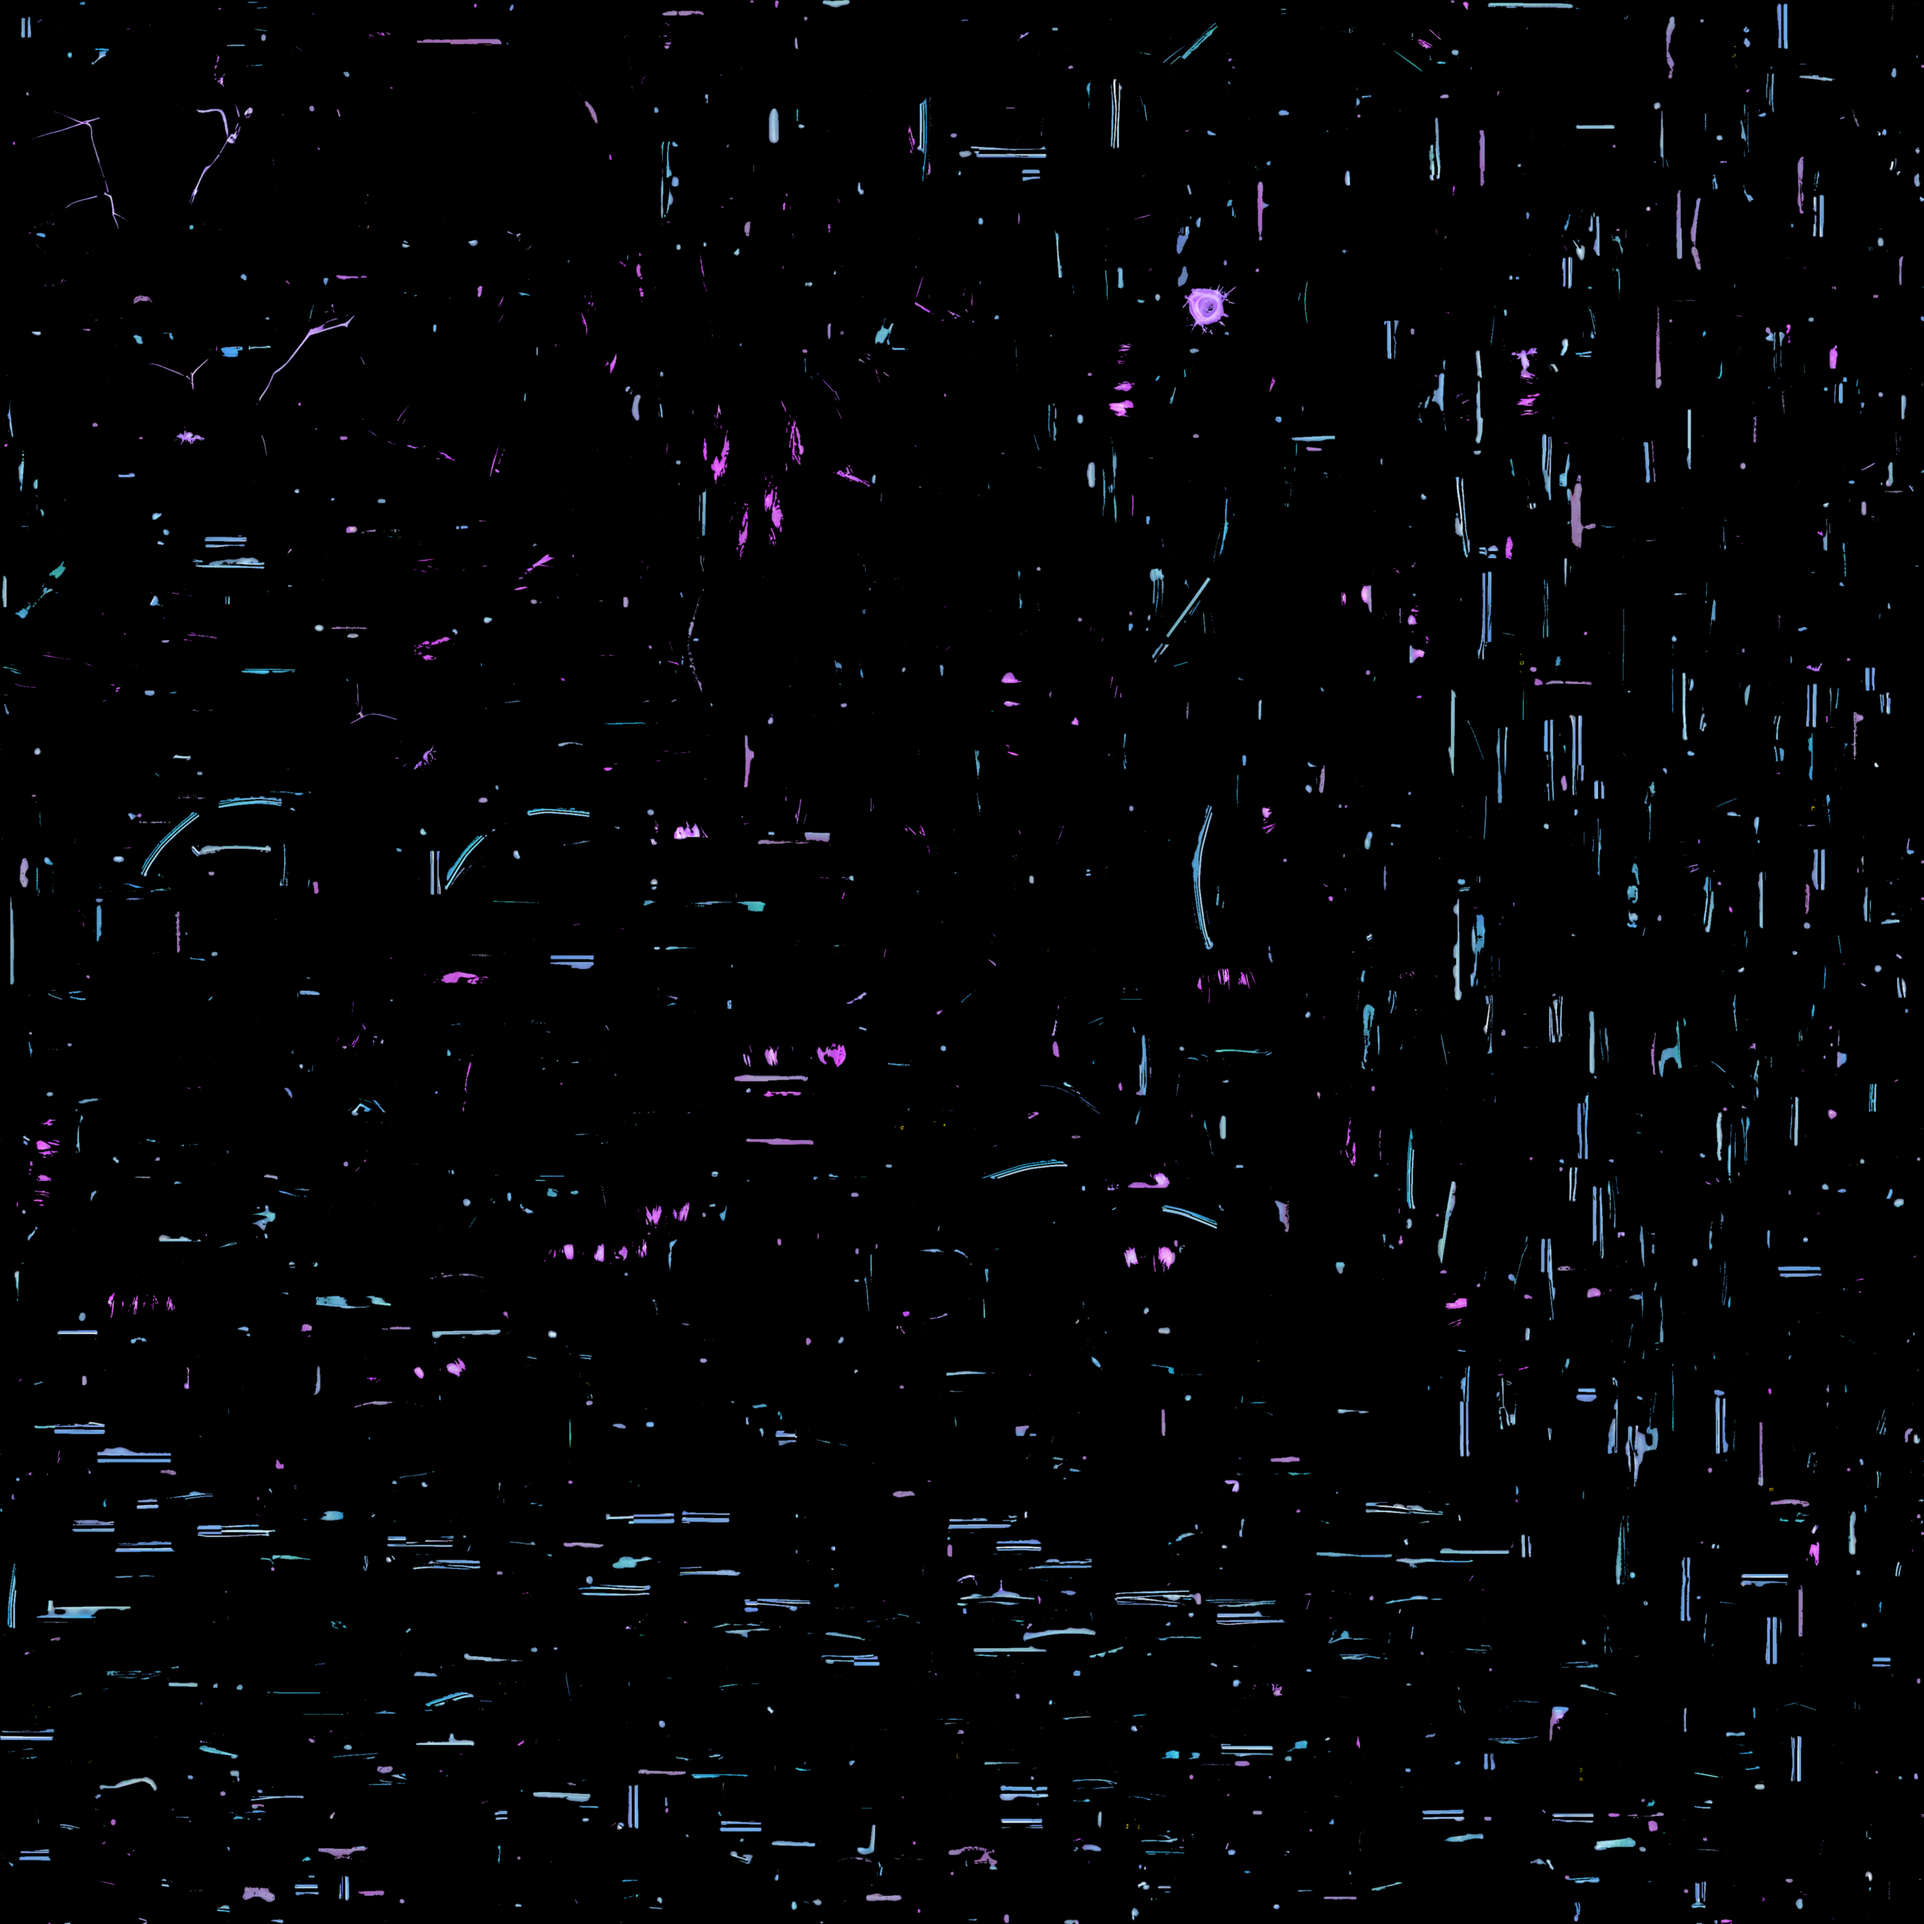
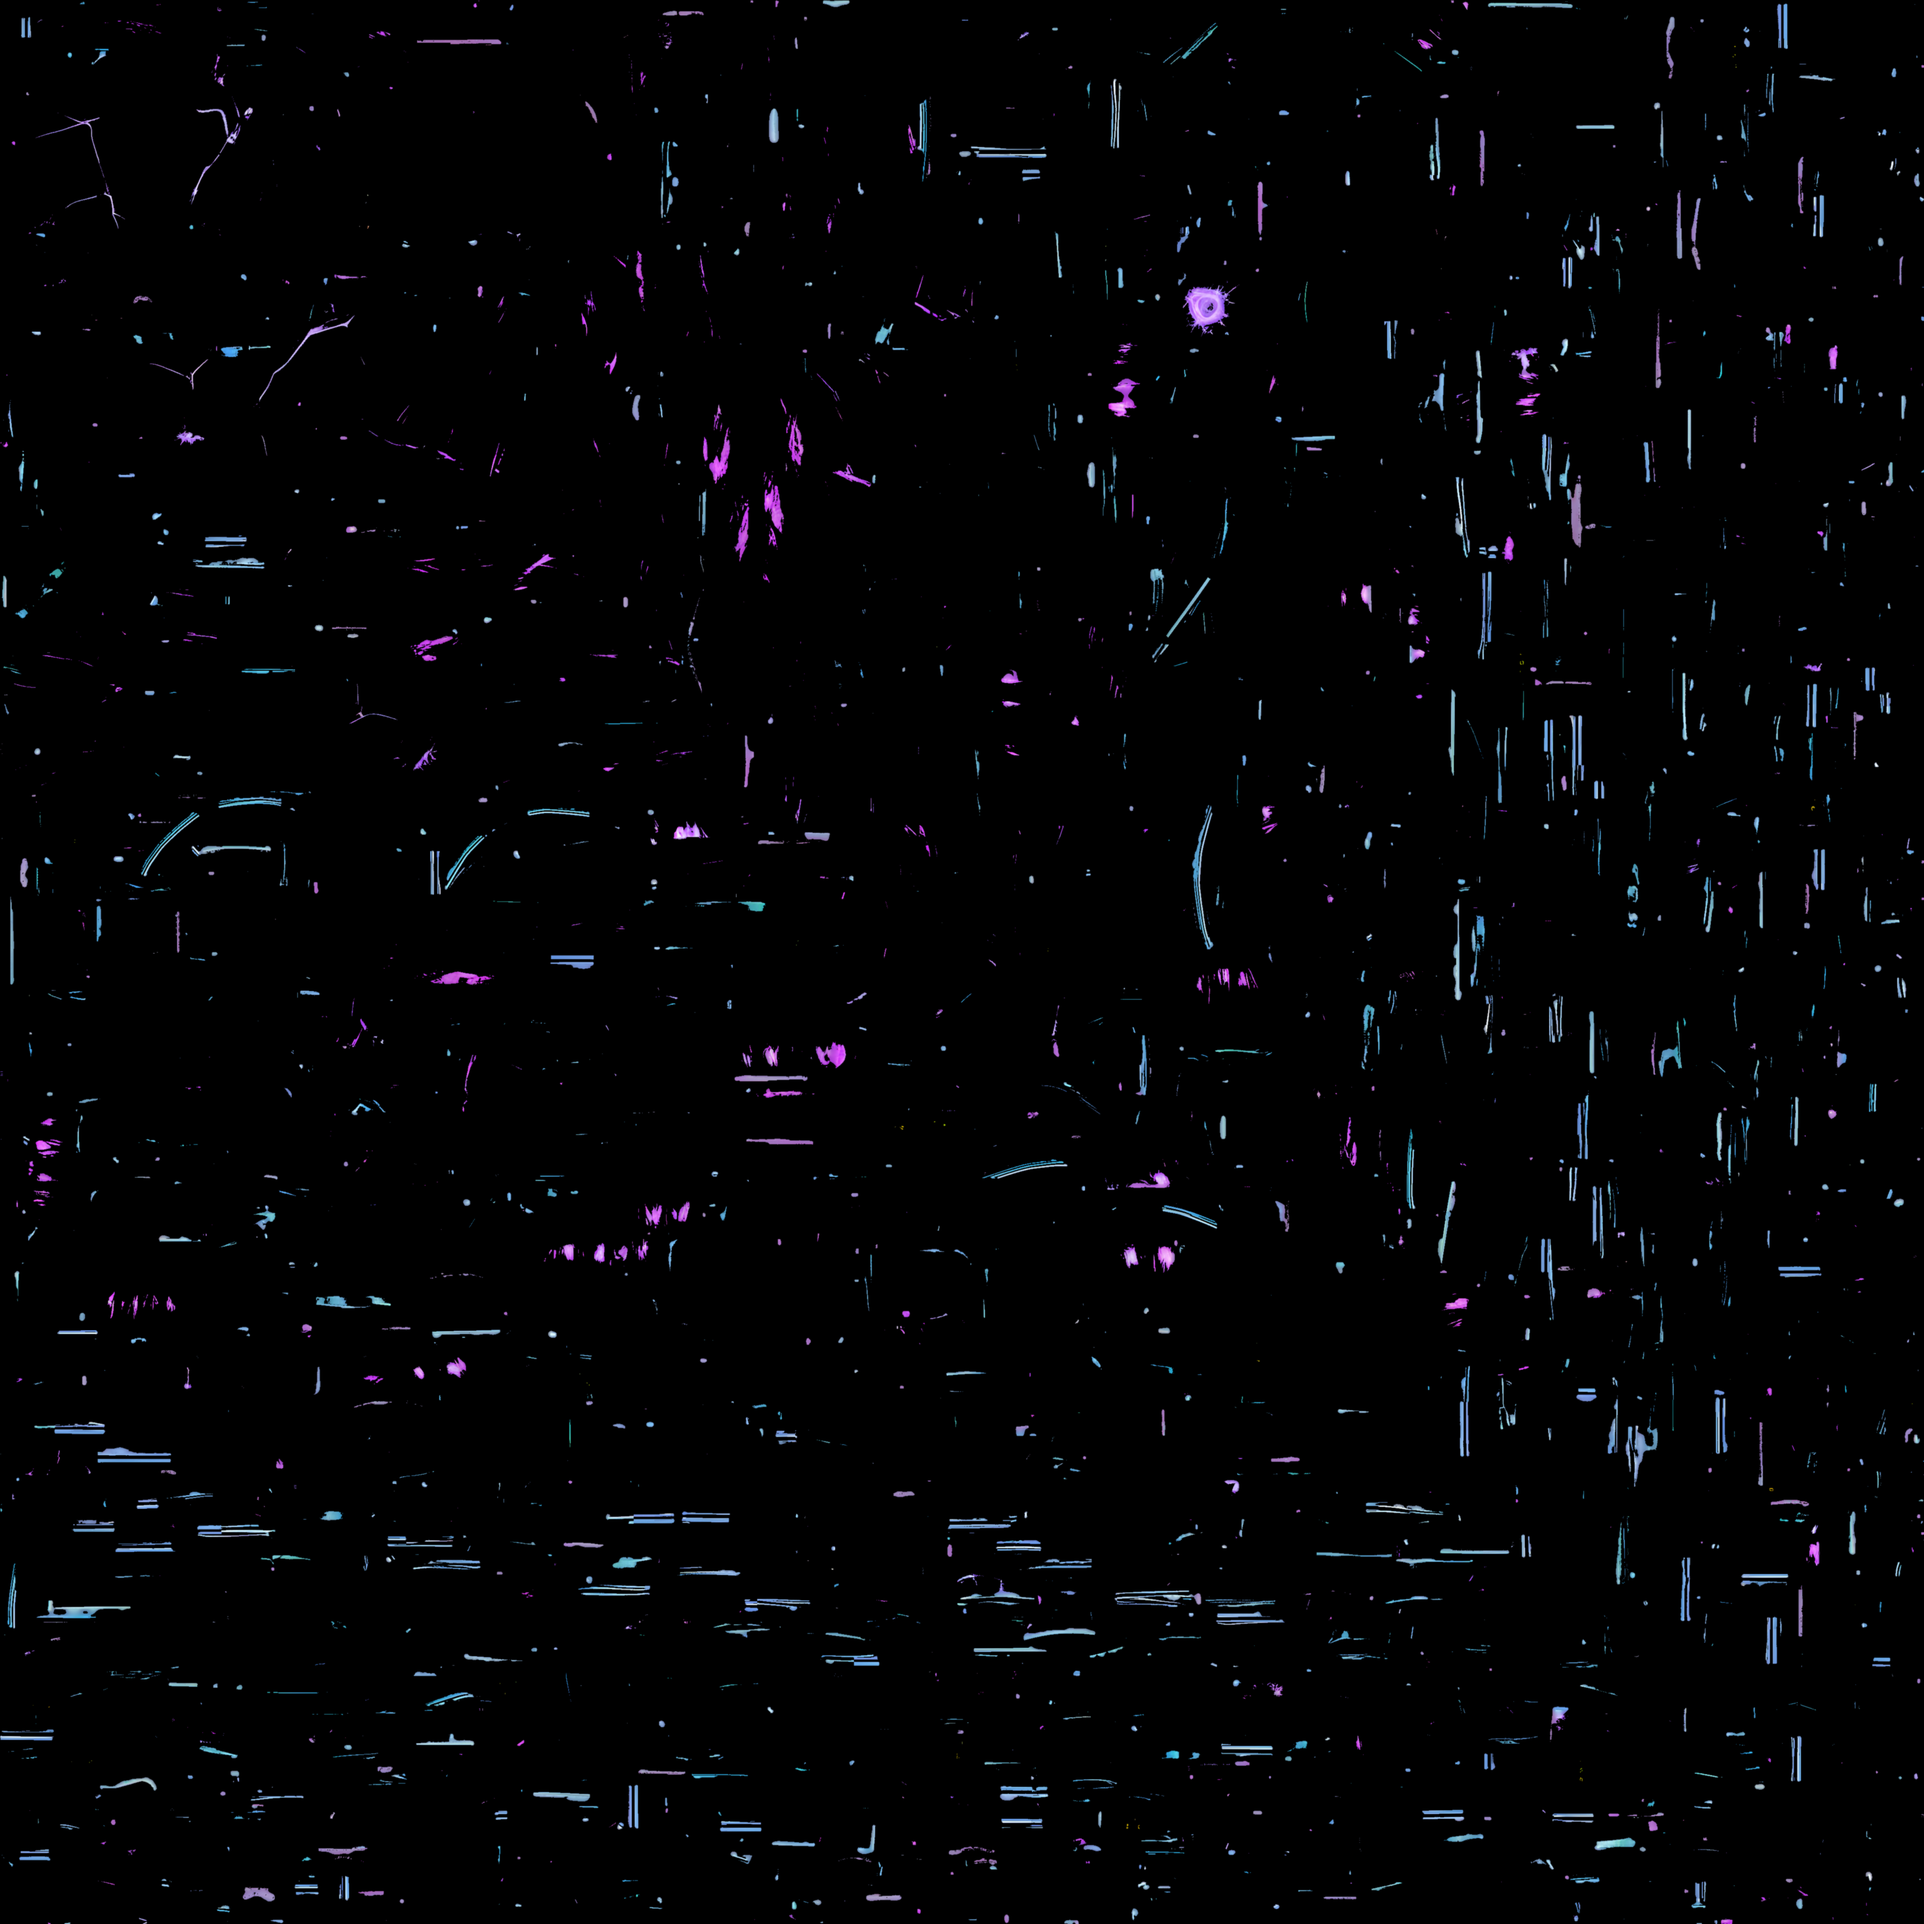
feat: void land v11 - hybrid threshold for richer neon edges

Changed region(s): [[0.375, 0.25, 0.4062, 0.2812]]

diff --git a/bake_void_v11.js b/bake_void_v11.js
@@ -1,0 +1,46 @@
+const sharp = require('sharp');
+const fs = require('fs');
+
+const INPUT = 'Emissive/texture.png'; 
+const OUTPUT = 'Emissive/emissive-void.png';
+
+async function bake() {
+    console.log("🌌 Void Land v11: Гибридный порог. Вытягиваем края жил...");
+    if (!fs.existsSync(INPUT)) return console.error("❌ Файл не найден!");
+
+    try {
+        const image = sharp(INPUT);
+        const { width, height } = await image.metadata();
+        const buffer = await image.raw().toBuffer();
+        const data = new Uint8ClampedArray(buffer);
+
+        for (let i = 0; i < data.length; i += 3) {
+            let r = data[i], g = data[i+1], b = data[i+2];
+            const brightness = (r * 0.299 + g * 0.587 + b * 0.114);
+
+            // 1. Проверка на "чистоту" фиолетового (неон)
+            const isPurePurple = (b > g * 2.5); 
+
+            // 2. ГИБРИДНАЯ ЛОГИКА:
+            // Если пиксель очень фиолетовый, пускаем его с порога 105 (вытаскиваем края).
+            // Если пиксель "грязный" (как плита), пускаем только если он ярче 125.
+            const passByPurple = isPurePurple && (brightness > 105);
+            const passByBrightness = (brightness > 125);
+
+            if (passByPurple || passByBrightness) {
+                data[i] = r;
+                data[i+1] = g;
+                data[i+2] = b;
+            } else {
+                data[i] = data[i+1] = data[i+2] = 0;
+            }
+        }
+
+        await sharp(Buffer.from(data), { raw: { width, height, channels: 3 } })
+            .blur(1.0) 
+            .toFile(OUTPUT);
+
+        console.log("✨ Готово! Жилы стали объемнее, плиты остались в тени.");
+    } catch (e) { console.error("❌ Ошибка:", e.message); }
+}
+bake();
